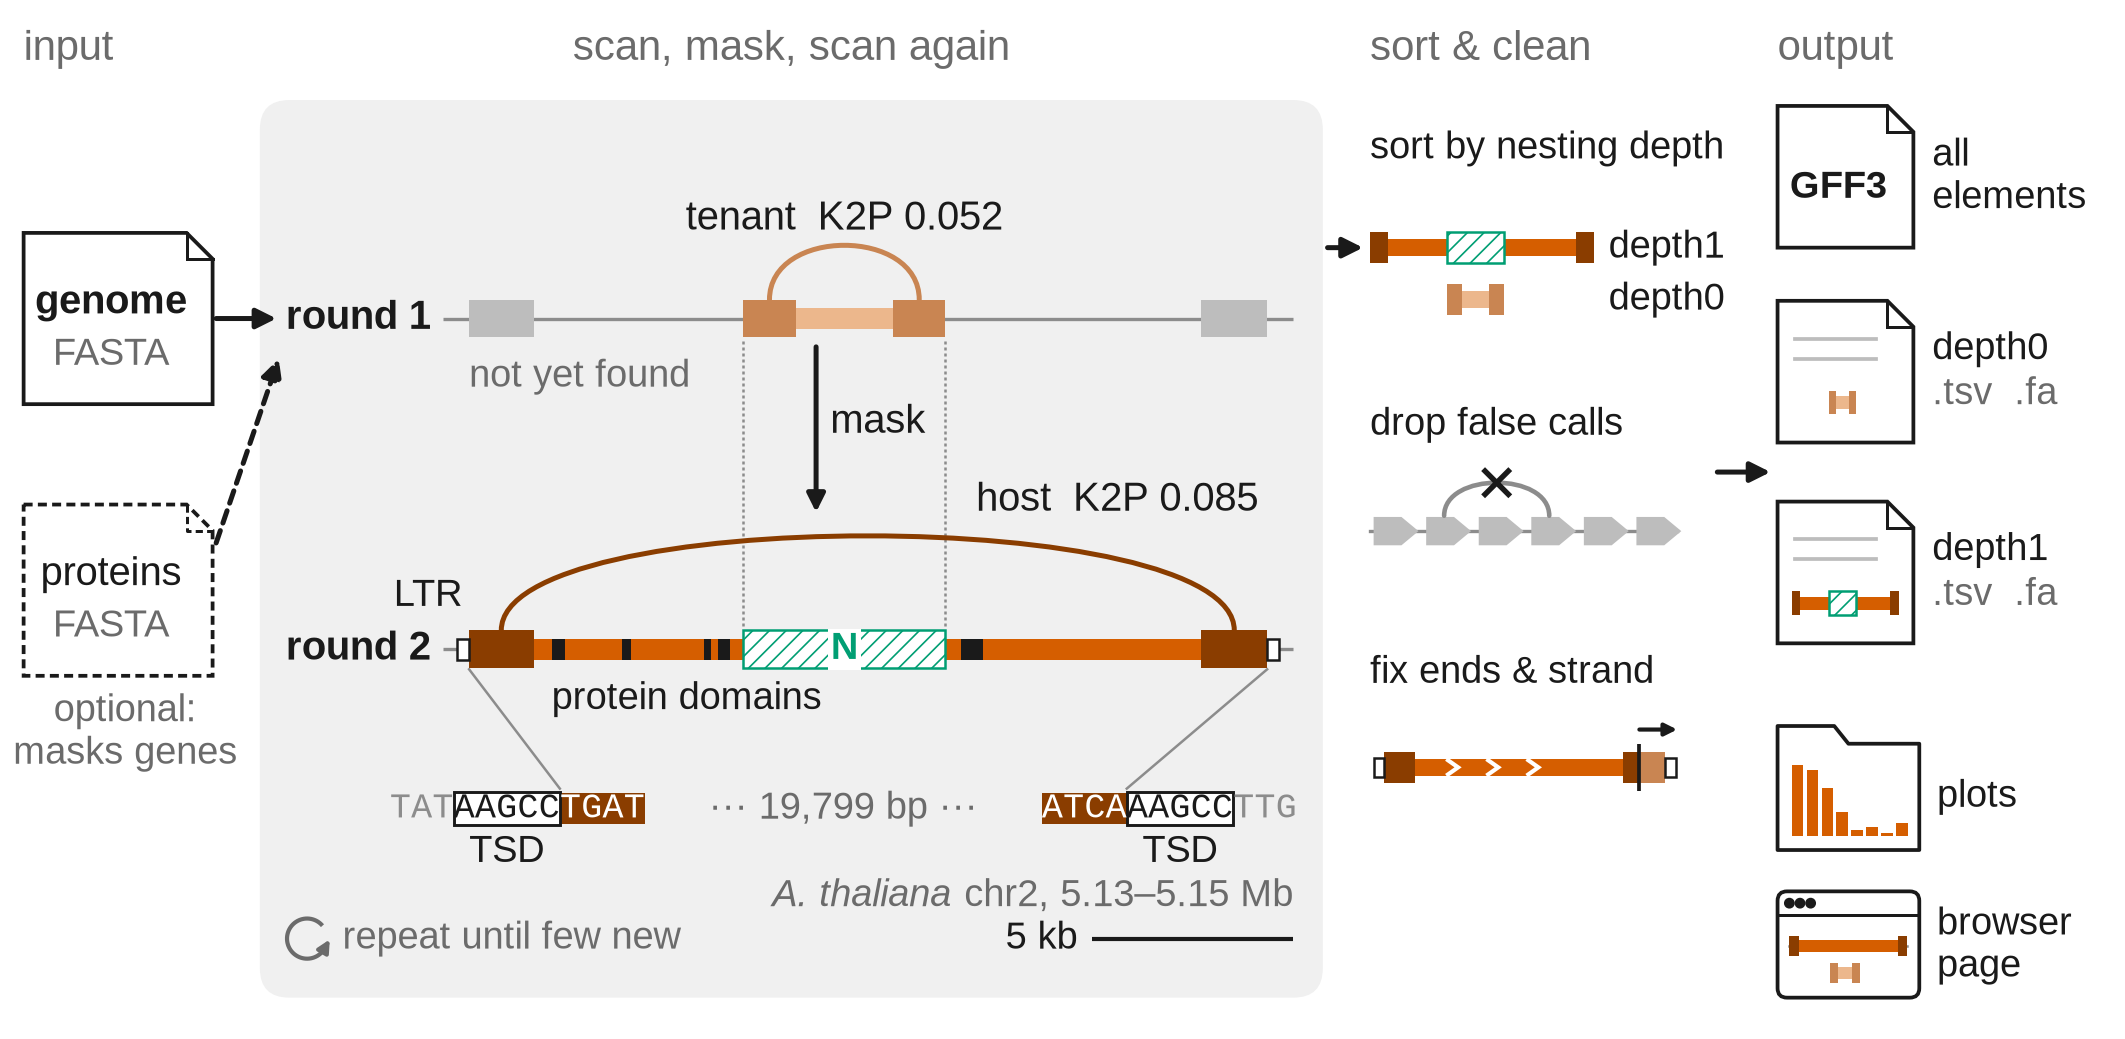
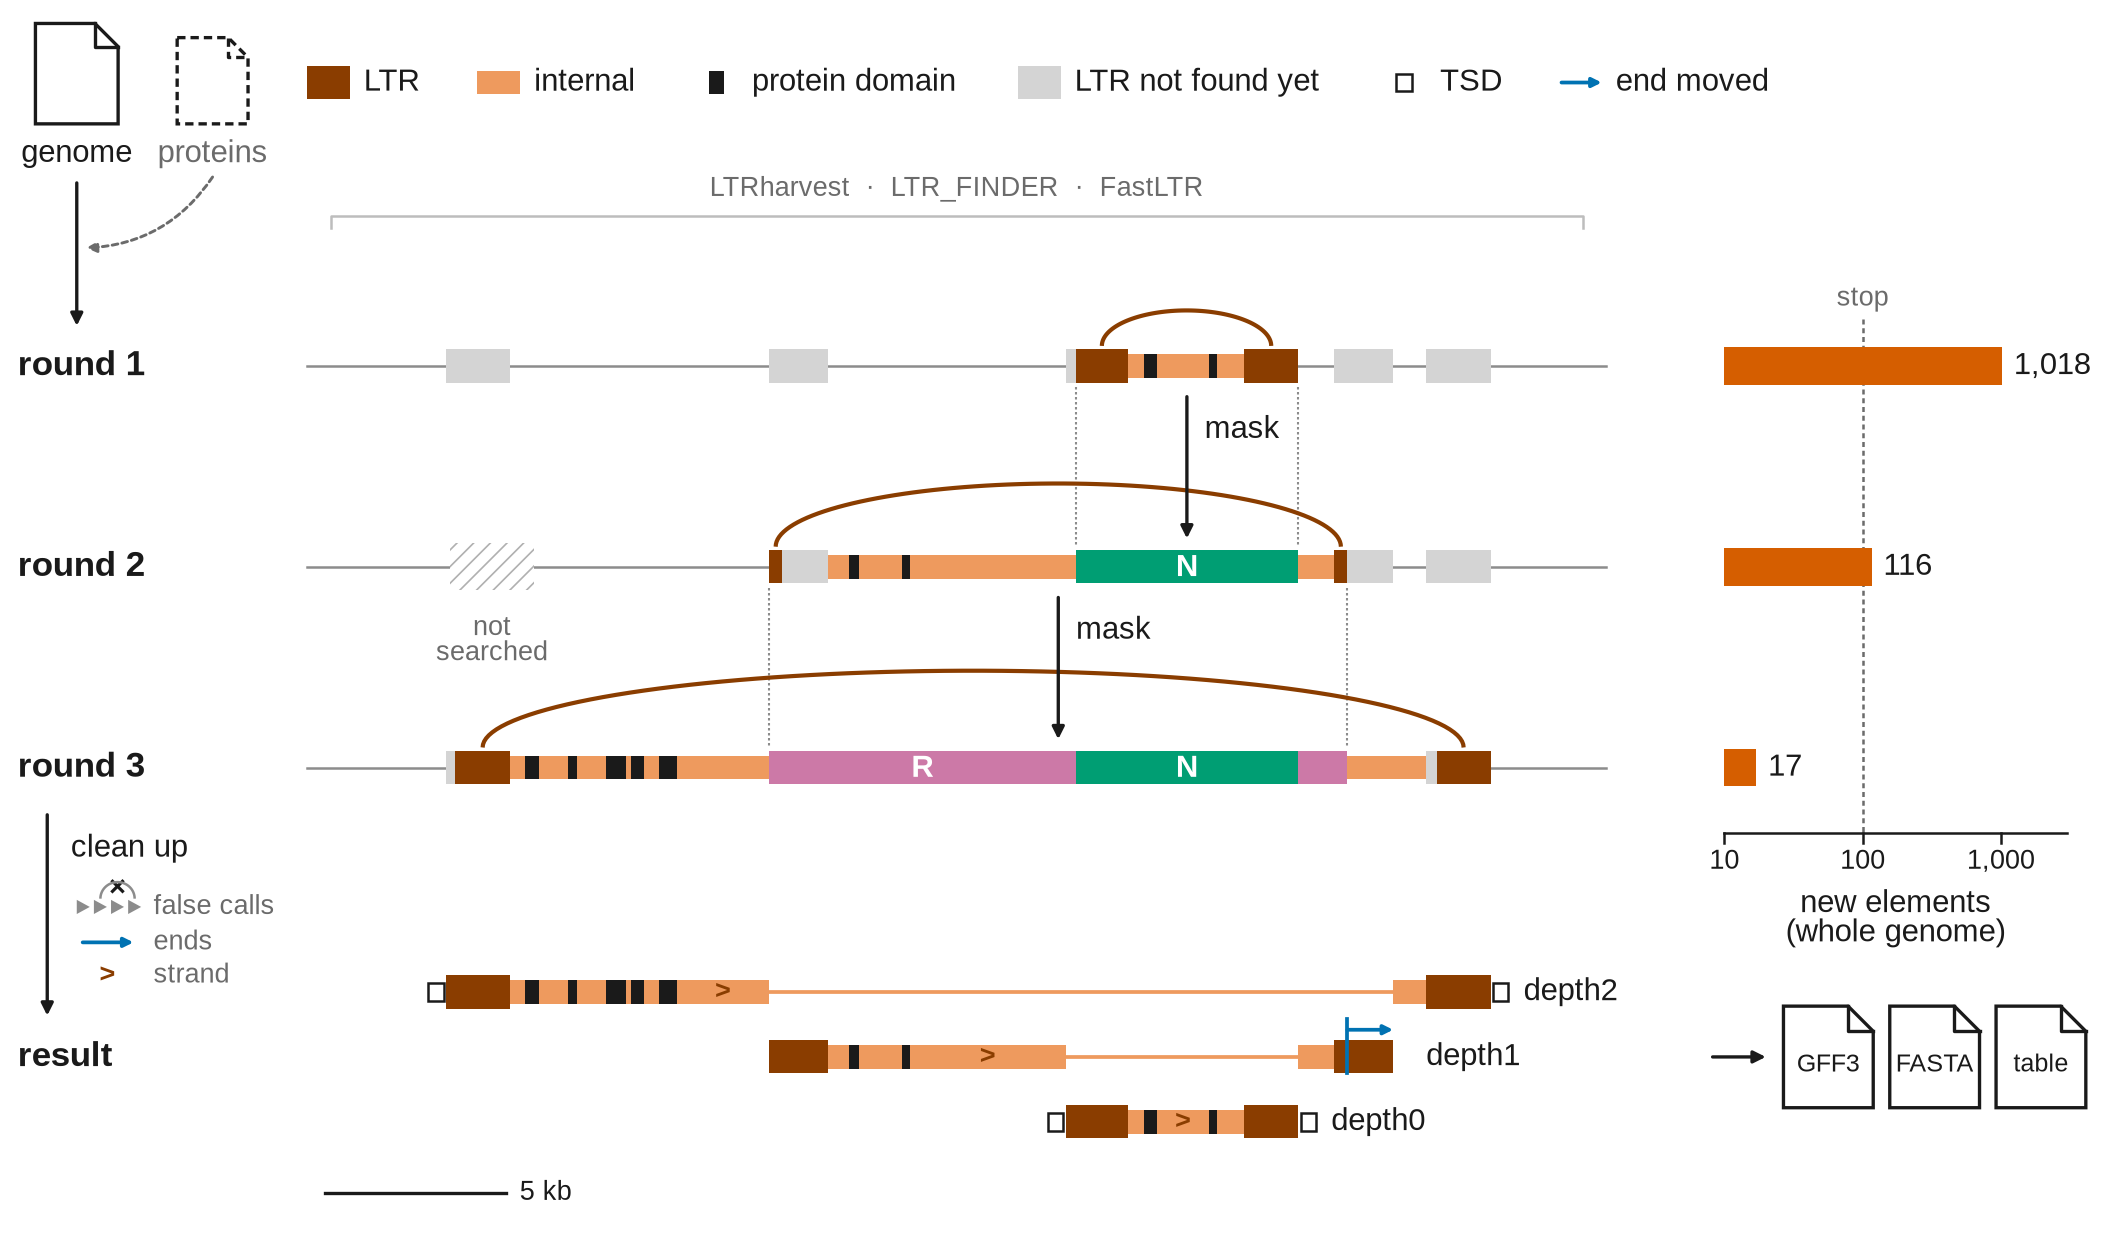
updated workflow

diff --git a/tests/test_nextflow_defaults.py b/tests/test_nextflow_defaults.py
@@ -58,7 +58,10 @@ def test_detect_passes_sdust_unless_skipped():
 
 def test_off_turns_strand_recovery_off_everywhere():
     wf = (REPO_ROOT / "workflows/ltrquest.nf").read_text()
-    assert "strand_recovery != 'off'" in wf
+    assert "strand_recovery.toString() in ['off', 'false']" in wf
+    # Nextflow 26.10 passes `--reboundary false` as the String "false" (truthy)
+    assert "params.reboundary.toString().toBoolean()" in wf
+    assert "if (params.reboundary)" not in wf
     assert "if (params.strand_recovery)" not in wf
     assert "strand_recovery_ppt && !" not in wf          # default-on ppt must not trip the check
     mc = (REPO_ROOT / "conf/modules.config").read_text()

diff --git a/README.md b/README.md
@@ -8,10 +8,11 @@
 
 ![LTRquest scans the genome, masks what it found and scans again](docs/images/workflow.png)
 
-A real pair on *A. thaliana* chromosome 2: round 1 finds the younger element (the tenant) and masks it (N), then
-round 2 finds the older element it had split (the host). K2P is the divergence between an element's two long terminal
-repeats (LTRs), which grows with age; a TSD (target-site duplication) is the short stretch of genome, usually 4-6 bp,
-copied on both sides of an insertion.
+One real nest on *A. thaliana* chromosome 4. Round 1 finds the innermost element and masks it (N). Round 2 searches
+again near it, finds the element it sat in and masks that too (R), and round 3 finds the outermost one. The search
+stops when a round finds fewer than 100 new elements (bars, whole genome). The clean-up then removes false calls and
+fixes ends and strand. A TSD (target-site duplication) is the short stretch of genome, usually 4-6 bp, copied on both
+sides of an insertion.
 
 ## What it does
 
@@ -90,7 +91,7 @@ extension (`.fa`, `.fasta`, `.fa.gz`, ...), plus `_LTRs` (here `Athal_tair10_chr
 
 ![Three nested elements as the depth FASTA files hold them](docs/images/nesting_depth.png)
 
-Three nested elements on *A. thaliana* chromosome 4 as the depth FASTA files hold them, each with the elements inside
+The three elements of the top figure's nest as the depth FASTA files hold them, each with the elements inside
 it masked by letters (A), the same records after deleting those letters (B), and the bases of the depth2 record before
 and after (C).
 

diff --git a/docs/outputs.md b/docs/outputs.md
@@ -649,12 +649,10 @@ Kmer2LTR is refused before anything changes: `ltrquest-reboundary` exits 3 and
 `ltrquest` stops.
 
 > When run through the Nextflow pipeline (on by default there too; `--reboundary false`
-> skips it), the re-bounded `_clean_`
-> depth tables and `<prefix>_reboundary.tsv` are published to one pooled
-> `${params.outdir}/reboundary/`, not into each sample's own results
-> directory — an element's templates are drawn from every sample, so the task
-> that writes them is pooled too. The GFF3s and plots still publish per
-> sample. See [nextflow.md](nextflow.md#what-the-pipeline-does).
+> skips it), the task that writes the re-bounded `_clean_` depth tables and
+> `<prefix>_reboundary.tsv` is pooled, because an element's templates are drawn
+> from every sample, but each file is still published to its own sample's
+> `${params.outdir}/<sample>/`. See [nextflow.md](nextflow.md#what-the-pipeline-does).
 
 ### 8.1 `<prefix>_reboundary.tsv`
 

diff --git a/docs/nextflow.md b/docs/nextflow.md
@@ -144,9 +144,8 @@ before clustering starts.
 and `gff3`. Like `cluster`/`flag-fp`, it cannot run one sample at a time, because an
 element's templates (the calls whose ends carry an exact TSD) come from every sample.
 It needs BLAST+ (`blastn`, `makeblastdb`). Its outputs, the re-bounded `_clean_`
-depth tables and each sample's `<prefix>_reboundary.tsv`, publish to one shared
-`results/reboundary/` directory: the one place this pipeline's output layout is not
-per sample. `gff3` and `plots` still publish to `results/<sample>/`. See
+depth tables and each sample's `<prefix>_reboundary.tsv`, publish to
+`results/<sample>/` like everything else, routed by the prefix in their names. See
 [outputs.md](outputs.md#8-re-boundarying).
 
 ### The round chain

diff --git a/CHANGELOG.md b/CHANGELOG.md
@@ -282,6 +282,10 @@ the old one's, which forces the schema, flag and stage changes below.
 
 ### Fixed
 
+- Nextflow: `--reboundary false` and `--strand_recovery_ppt false` did not switch those steps off on Nextflow 26.10,
+  which passes `false` from the command line as text; every on/off setting now reads the same on 24.04 and 26.10.
+- Nextflow: the re-boundaried depth tables and `<prefix>_reboundary.tsv` publish to `results/<sample>/` with the
+  rest of that sample's results, not to a shared `results/reboundary/`.
 - Re-boundarying no longer writes `<genome>.fai` beside the input genome.
 - TEsorter2's pass-2 index (`temp_ltr_2pass_lib_*.fa.fxi`) no longer ends up in the run folder.
 
